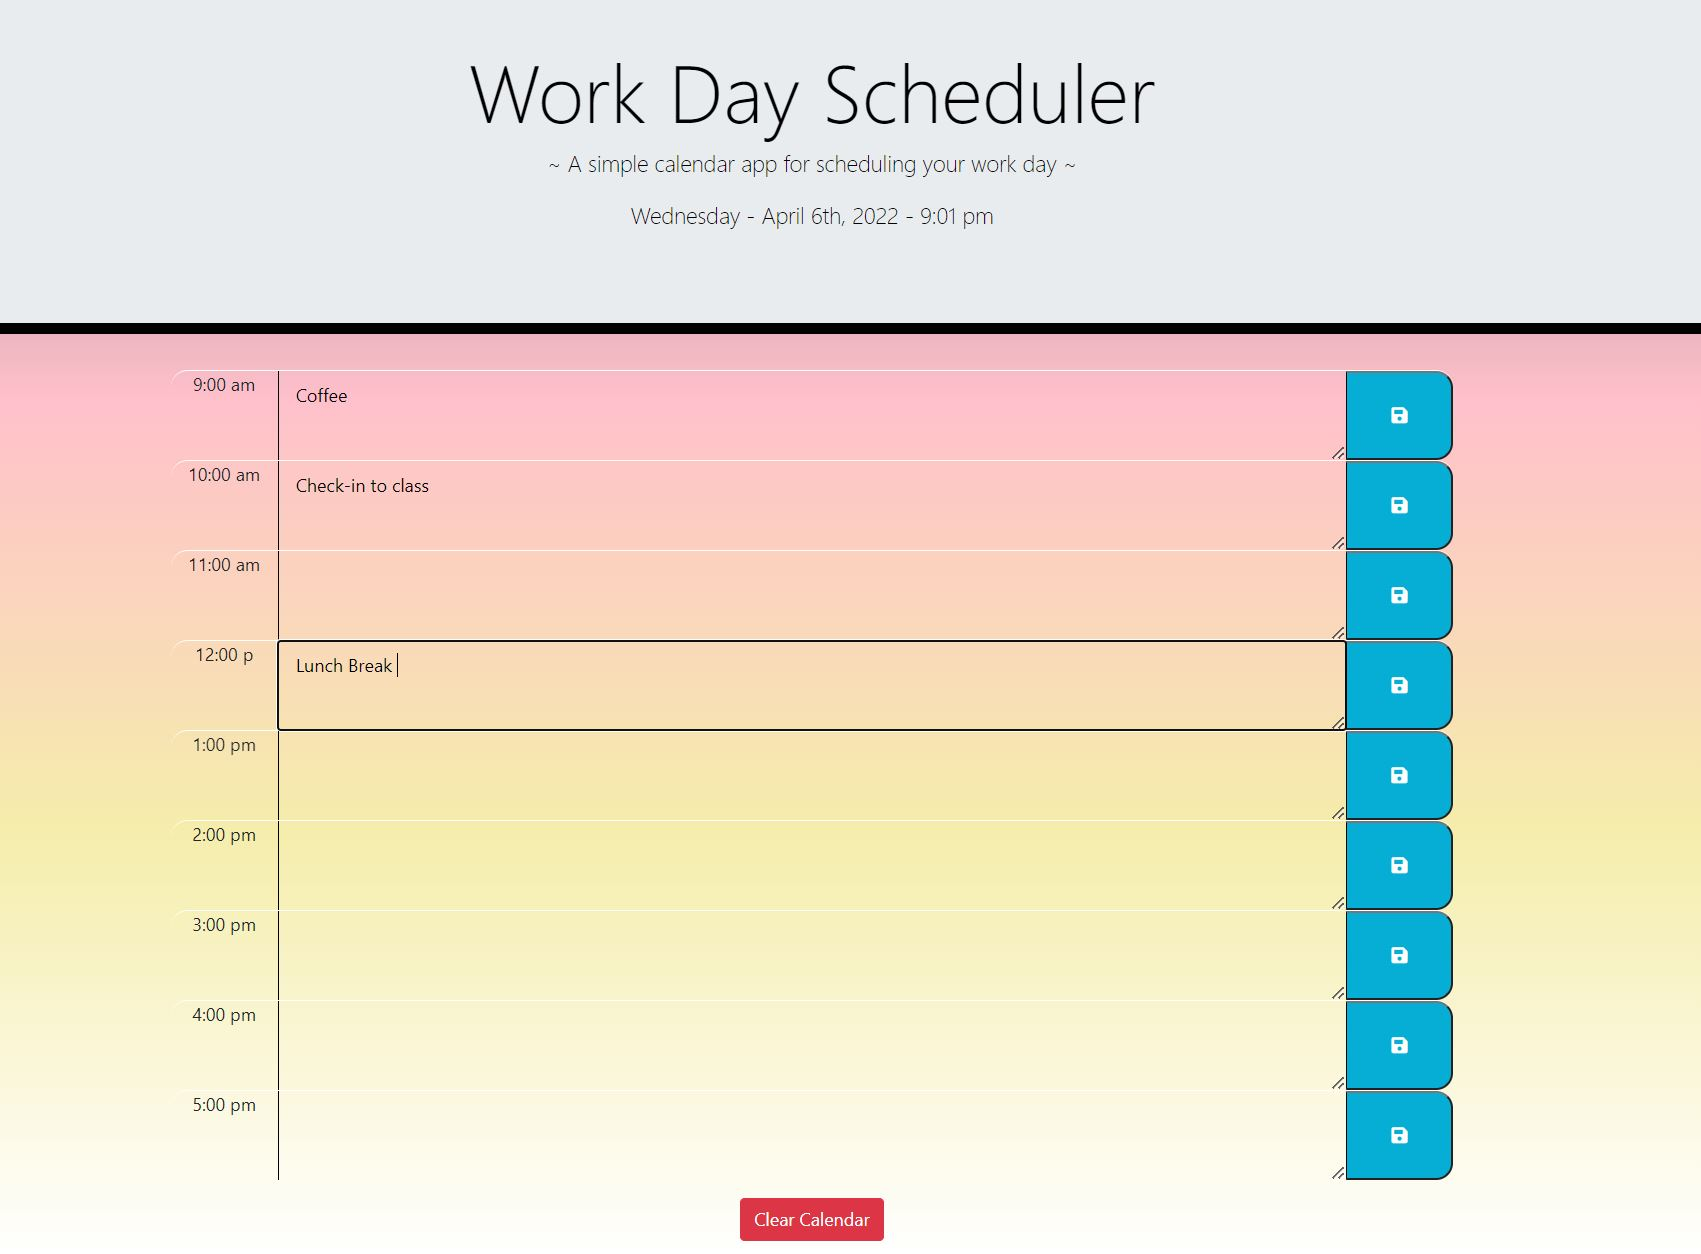
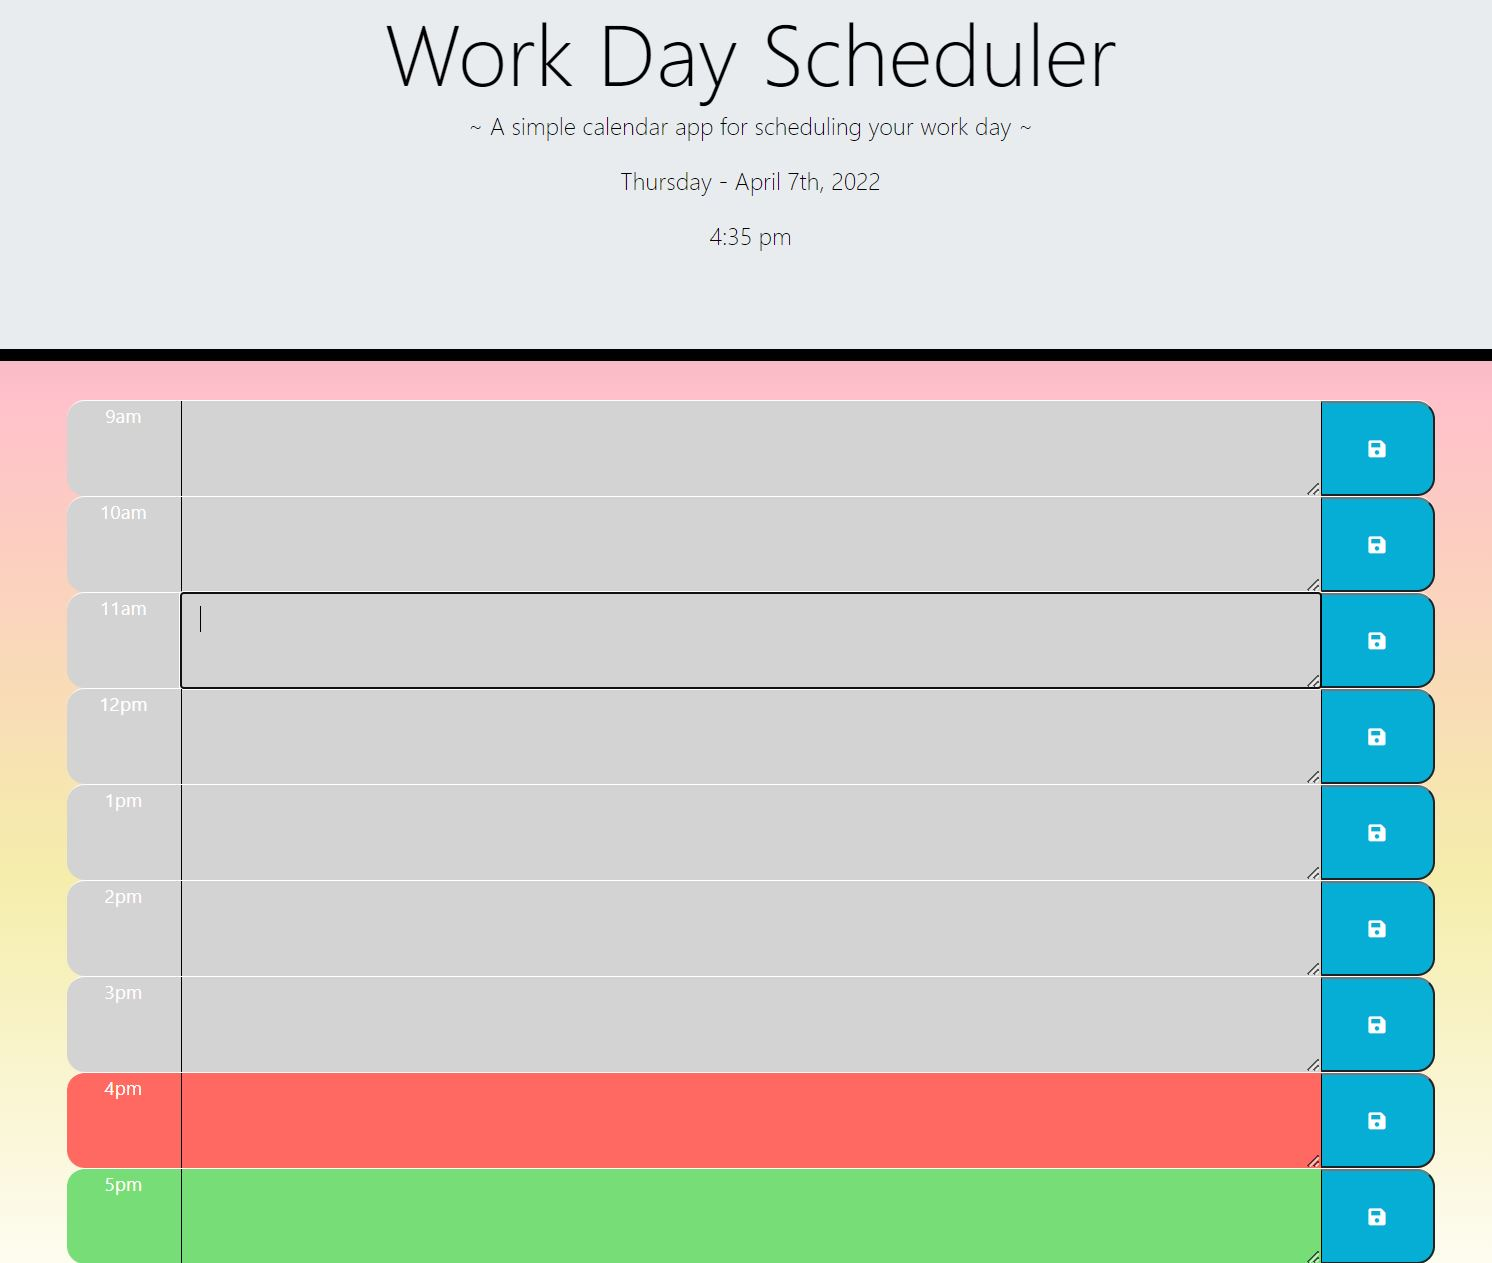
js updates

diff --git a/index.html b/index.html
@@ -18,69 +18,67 @@
 
 <body>
 <header class="jumbotron">
-    <h1 class="display-3">Work Day Scheduler</h1>
+    <h1 class="display-3 m-1">Work Day Scheduler</h1>
     <p class="lead">~ A simple calendar app for scheduling your work day ~</p>
     <p id="currentDay" class="lead"></p>
+    <p id="currentTime" class="lead"></p>
 </header>
 <div
     class="container">
     <!-- Timeblocks go here -->
-    <div id='9' class="row time-block">
-        <div class="col-sm-1">9:00 am</div>
-        <textarea class="col-sm-10"></textarea>
-        <button type ="button" button class="col-sm-1 saveBtn"><i class="fas fa-save"></i></button>
+    <div id='09' class="row time-block">
+        <div class="col-sm-1">9am</div>
+        <textarea class="text col-sm-10"></textarea>
+        <button type ="button" button class="col-sm-1 saveBtn"><i class="fas fa-save fa-2x"></i></button>
     </div>
 
     <div id='10' class="row time-block">
-        <div class="col-sm-1">10:00 am</div>
-        <textarea class="col-sm-10"></textarea>
-        <button type ="button" button class="col-sm-1 saveBtn"><i class="fas fa-save"></i></button>
+        <div class="col-sm-1">10am</div>
+        <textarea class="text col-sm-10"></textarea>
+        <button type ="button" button class="col-sm-1 saveBtn"><i class="fas fa-save fa-2x"></i></button>
     </div>
 
     <div id='11' class="row time-block">
-        <div class="col-sm-1">11:00 am</div>
-        <textarea class="col-sm-10"></textarea>
-        <button type ="button" button class="col-sm-1 saveBtn"><i class="fas fa-save"></i></button>
+        <div class="col-sm-1">11am</div>
+        <textarea class="text col-sm-10"></textarea>
+        <button type ="button" button class="col-sm-1 saveBtn"><i class="fas fa-save fa-2x"></i></button>
     </div>
 
     <div id='12' class="row time-block">
-        <div class="col-sm-1">12:00 p</div>
-        <textarea class="col-sm-10"></textarea>
-        <button type ="button" button class="col-sm-1 saveBtn"><i class="fas fa-save"></i></button>
+        <div class="col-sm-1">12pm</div>
+        <textarea class="text col-sm-10"></textarea>
+        <button type ="button" button class="col-sm-1 saveBtn"><i class="fas fa-save fa-2x"></i></button>
     </div>
 
-    <div id='1' class="row time-block">
-        <div class="col-sm-1">1:00 pm</div>
-        <textarea class="col-sm-10"></textarea>
-        <button type ="button" button class="col-sm-1 saveBtn"><i class="fas fa-save"></i></button>
+    <div id='13' class="row time-block">
+        <div class="col-sm-1">1pm</div>
+        <textarea class="text col-sm-10"></textarea>
+        <button type ="button" button class="col-sm-1 saveBtn"><i class="fas fa-save fa-2x"></i></button>
     </div>
 
-    <div id='2' class="row time-block">
-        <div class="col-sm-1">2:00 pm</div>
-        <textarea class="col-sm-10"></textarea>
-        <button type ="button" button class="col-sm-1 saveBtn"><i class="fas fa-save"></i></button>
+    <div id='14' class="row time-block">
+        <div class="col-sm-1">2pm</div>
+        <textarea class="text col-sm-10"></textarea>
+        <button type ="button" button class="col-sm-1 saveBtn"><i class="fas fa-save fa-2x"></i></button>
     </div>
 
-    <div id='3' class="row time-block">
-        <div class="col-sm-1">3:00 pm</div>
-        <textarea class="col-sm-10"></textarea>
-        <button type ="button" button class="col-sm-1 saveBtn"><i class="fas fa-save"></i></button>
+    <div id='15' class="row time-block">
+        <div class="col-sm-1">3pm</div>
+        <textarea class="text col-sm-10"></textarea>
+        <button type ="button" button class="col-sm-1 saveBtn"><i class="fas fa-save fa-2x"></i></button>
     </div>
 
-    <div id='4' class="row time-block">
-        <div class="col-sm-1">4:00 pm</div>
-        <textarea class="col-sm-10"></textarea>
-        <button type ="button" button class="col-sm-1 saveBtn"><i class="fas fa-save"></i></button>
+    <div id='16' class="row time-block">
+        <div class="text col-sm-1">4pm</div>
+        <textarea class="text col-sm-10"></textarea>
+        <button type ="button" button class="col-sm-1 saveBtn"><i class="fas fa-save fa-2x"></i></button>
     </div>
 
-    <div id='5' class="row time-block">
-        <div class="col-sm-1">5:00 pm</div>
-        <textarea class="col-sm-10"></textarea>
-        <button type ="button" button class="col-sm-1 saveBtn"><i class="fas fa-save"></i></button>
+    <div id='17' class="row time-block">
+        <div class="col-sm-1">5pm</div>
+        <textarea class="text col-sm-10"></textarea>
+        <button type ="button" button class="col-sm-1 saveBtn"><i class="fas fa-save fa-2x"></i></button>
     </div>
-    <div class="col text-center">
-    <div><button class="btn btn-danger btn-md m-3" id="clear-button">Clear Calendar</button></div>
-        </div>
 </div>
 
 <script src="https://cdnjs.cloudflare.com/ajax/libs/jquery/3.2.1/jquery.min.js"></script>

diff --git a/assets/js/script.js b/assets/js/script.js
@@ -1,13 +1,40 @@
 // current day date stamp 
-var currentDay = moment().format("dddd - MMMM Do, YYYY - h:mm a")
+var currentDay = moment().format("dddd - MMMM Do, YYYY")
 $("#currentDay").text(currentDay)
 
+var currentTime = moment().format("h:mm a")
+$('#currentTime').text(currentTime)
 
-// changing time block colors
-for (let index = 0; index < array.length; index++){
-    const element = array[index];
-    
+
+function saveHandler(){
+    var calText = $(this).siblings("textarea").val()
+    var timeSlot = $(this).parent().attr("id")
+    localStorage.setItem(timeSlot, calText)
 }
 
-// local storage 
-localStorage.getItem("")
+// changing time block colors based on current time - past, current, future
+function timeBlocks() {
+var calTime = $(this).attr("id") 
+console.log(calTime)
+console.log(moment().format("HH"))
+if (calTime > moment().format("HH")) { 
+        $(this).addClass("future")
+} else if(calTime === moment().format("HH")){
+    $(this).addClass("present")
+} else {
+    $(this).addClass("past")
+}}     
+$(".time-block").each(timeBlocks);
+
+//saving entries for each time-block to local storage
+$(".saveBtn").on('click', saveHandler)
+$("#09").children("textarea").val(localStorage.getItem("09"))
+$("#10").children("textarea").val(localStorage.getItem("10"))
+$("#11").children("textarea").val(localStorage.getItem("11"))
+$("#12").children("textarea").val(localStorage.getItem("12"))
+$("#13").children("textarea").val(localStorage.getItem("13"))
+$("#14").children("textarea").val(localStorage.getItem("14"))
+$("#15").children("textarea").val(localStorage.getItem("15"))
+$("#16").children("textarea").val(localStorage.getItem("16"))
+$("#17").children("textarea").val(localStorage.getItem("17"))
+

diff --git a/assets/css/style.css b/assets/css/style.css
@@ -69,10 +69,10 @@ body {
   .saveBtn i:hover {
     font-size: 20px;
     transition: all 0.3s ease-in-out;
-    color:black;
+    color: white;
   }
 
 .saveBtn:hover {
-    background-image: linear-gradient(white, #06aed5);
+    background-image: linear-gradient(white, rgb(141, 204, 141));
 }
   
